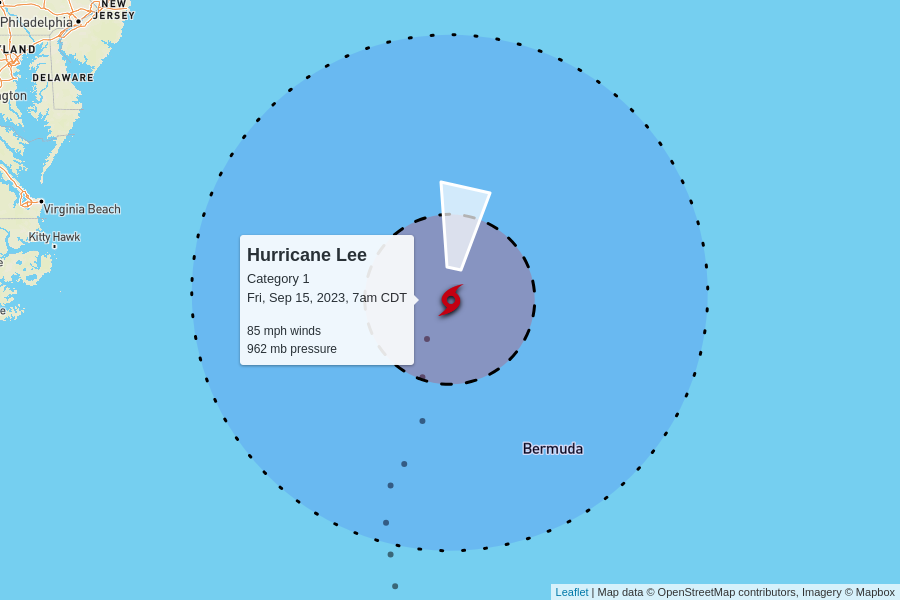
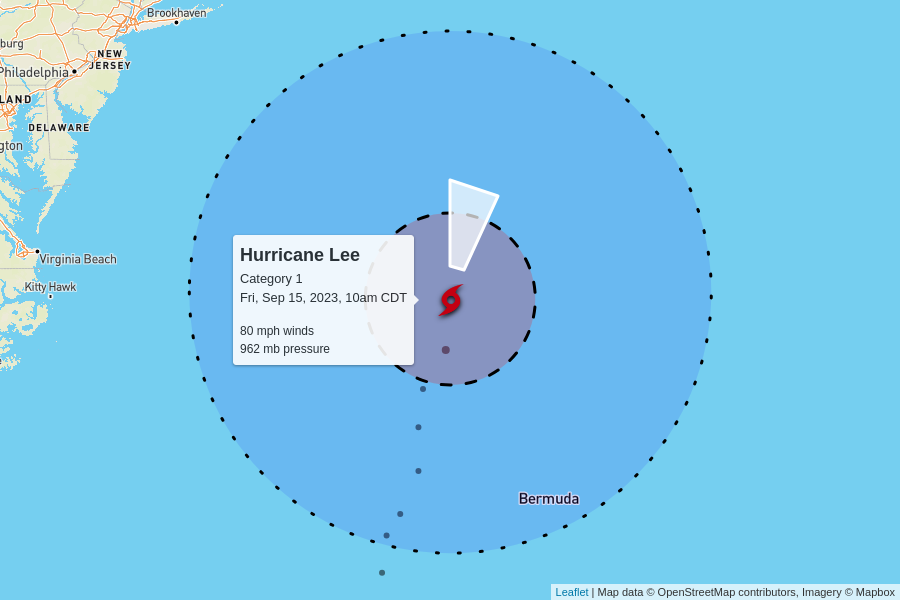
automatic update

diff --git a/docs/index.html b/docs/index.html
@@ -96,7 +96,7 @@
     </p>
 
     
-    <h2>2 active storms</h2>
+    <h2>3 active storms</h2>
     <img src="active.png">
 
     <table>
@@ -104,7 +104,7 @@
         <td colspan="6" class="storm category-1" >
           <h2>
             Hurricane Lee - Category 1
-            <p class="updated">last updated <span data-time>2023-09-15T12:00:00.000Z</span></p>
+            <p class="updated">last updated <span data-time>2023-09-15T15:00:00.000Z</span></p>
           </h2>
         </td>
       </tr>
@@ -119,12 +119,12 @@
       </tr>
       <tr>
         <td class="spacer"></td>
-        <td>85 mph<br>0 mph since last update</td>
-        <td>962 mb<br>+5 mb since last update</td>
+        <td>80 mph<br>-5 mph since last update</td>
+        <td>962 mb<br>0 mb since last update</td>
         <td>
-          16 mph to the north
+          18 mph to the north-northeast
           <br/>
-          <span style="display: inline-block; font-size: 1.5em; transform: rotate(10deg);">↑</span>
+          <span style="display: inline-block; font-size: 1.5em; transform: rotate(15deg);">↑</span>
         </td>
         <td><a href="https://raw.githubusercontent.com/mgwalker/atlantic-hurricanes/main/data/csv/AL132023.csv">AL132023.csv</a></td>
         <td><a href="https://www.nhc.noaa.gov/archive/2023/LEE.shtml?">NHC advisories</a></td>
@@ -148,7 +148,7 @@
         <td colspan="6" class="storm category-0" >
           <h2>
             Tropical Storm Margot
-            <p class="updated">last updated <span data-time>2023-09-15T09:00:00.000Z</span></p>
+            <p class="updated">last updated <span data-time>2023-09-15T15:00:00.000Z</span></p>
           </h2>
         </td>
       </tr>
@@ -163,12 +163,12 @@
       </tr>
       <tr>
         <td class="spacer"></td>
-        <td>70 mph<br>-5 mph since last update</td>
-        <td>984 mb<br>+2 mb since last update</td>
+        <td>65 mph<br>-5 mph since last update</td>
+        <td>990 mb<br>+6 mb since last update</td>
         <td>
-          3 mph to the east-southeast
+          5 mph to the southeast
           <br/>
-          <span style="display: inline-block; font-size: 1.5em; transform: rotate(115deg);">↑</span>
+          <span style="display: inline-block; font-size: 1.5em; transform: rotate(135deg);">↑</span>
         </td>
         <td><a href="https://raw.githubusercontent.com/mgwalker/atlantic-hurricanes/main/data/csv/AL142023.csv">AL142023.csv</a></td>
         <td><a href="https://www.nhc.noaa.gov/archive/2023/MARGOT.shtml?">NHC advisories</a></td>
@@ -178,6 +178,50 @@
         <td colspan="5">
           <figure>
             <img src="AL142023.png">
+            <figcaption>
+              Map data &copy; <a href="https://www.openstreetmap.org/copyright">OpenStreetMap</a> contributors,
+              Imagery &copy; <a href="https://www.mapbox.com/">Mapbox</a> |
+              <a href="https://www.mapbox.com/map-feedback/" target="_blank">Improve this map</a>
+            </figcaption>
+          </figure>
+        </td>
+      </tr>
+      
+
+      <tr>
+        <td colspan="6" class="storm category-0" >
+          <h2>
+            Tropical Depression Fifteen
+            <p class="updated">last updated <span data-time>2023-09-15T15:00:00.000Z</span></p>
+          </h2>
+        </td>
+      </tr>
+      
+      <tr>
+        <th class="spacer"></th>
+        <th>wind speed</th>
+        <th>central pressure</th>
+        <th>movement</th>
+        <th>data (CSV)</th>
+        <th>National Hurricane Center</th>
+      </tr>
+      <tr>
+        <td class="spacer"></td>
+        <td>35 mph</td>
+        <td>1007 mb</td>
+        <td>
+          12 mph to the northwest
+          <br/>
+          <span style="display: inline-block; font-size: 1.5em; transform: rotate(320deg);">↑</span>
+        </td>
+        <td><a href="https://raw.githubusercontent.com/mgwalker/atlantic-hurricanes/main/data/csv/AL152023.csv">AL152023.csv</a></td>
+        <td><a href="https://www.nhc.noaa.gov/archive/2023/FIFTEEN.shtml?">NHC advisories</a></td>
+      </tr>
+      <tr id="storm_AL152023" >
+        <td class="spacer">
+        <td colspan="5">
+          <figure>
+            <img src="AL152023.png">
             <figcaption>
               Map data &copy; <a href="https://www.openstreetmap.org/copyright">OpenStreetMap</a> contributors,
               Imagery &copy; <a href="https://www.mapbox.com/">Mapbox</a> |
